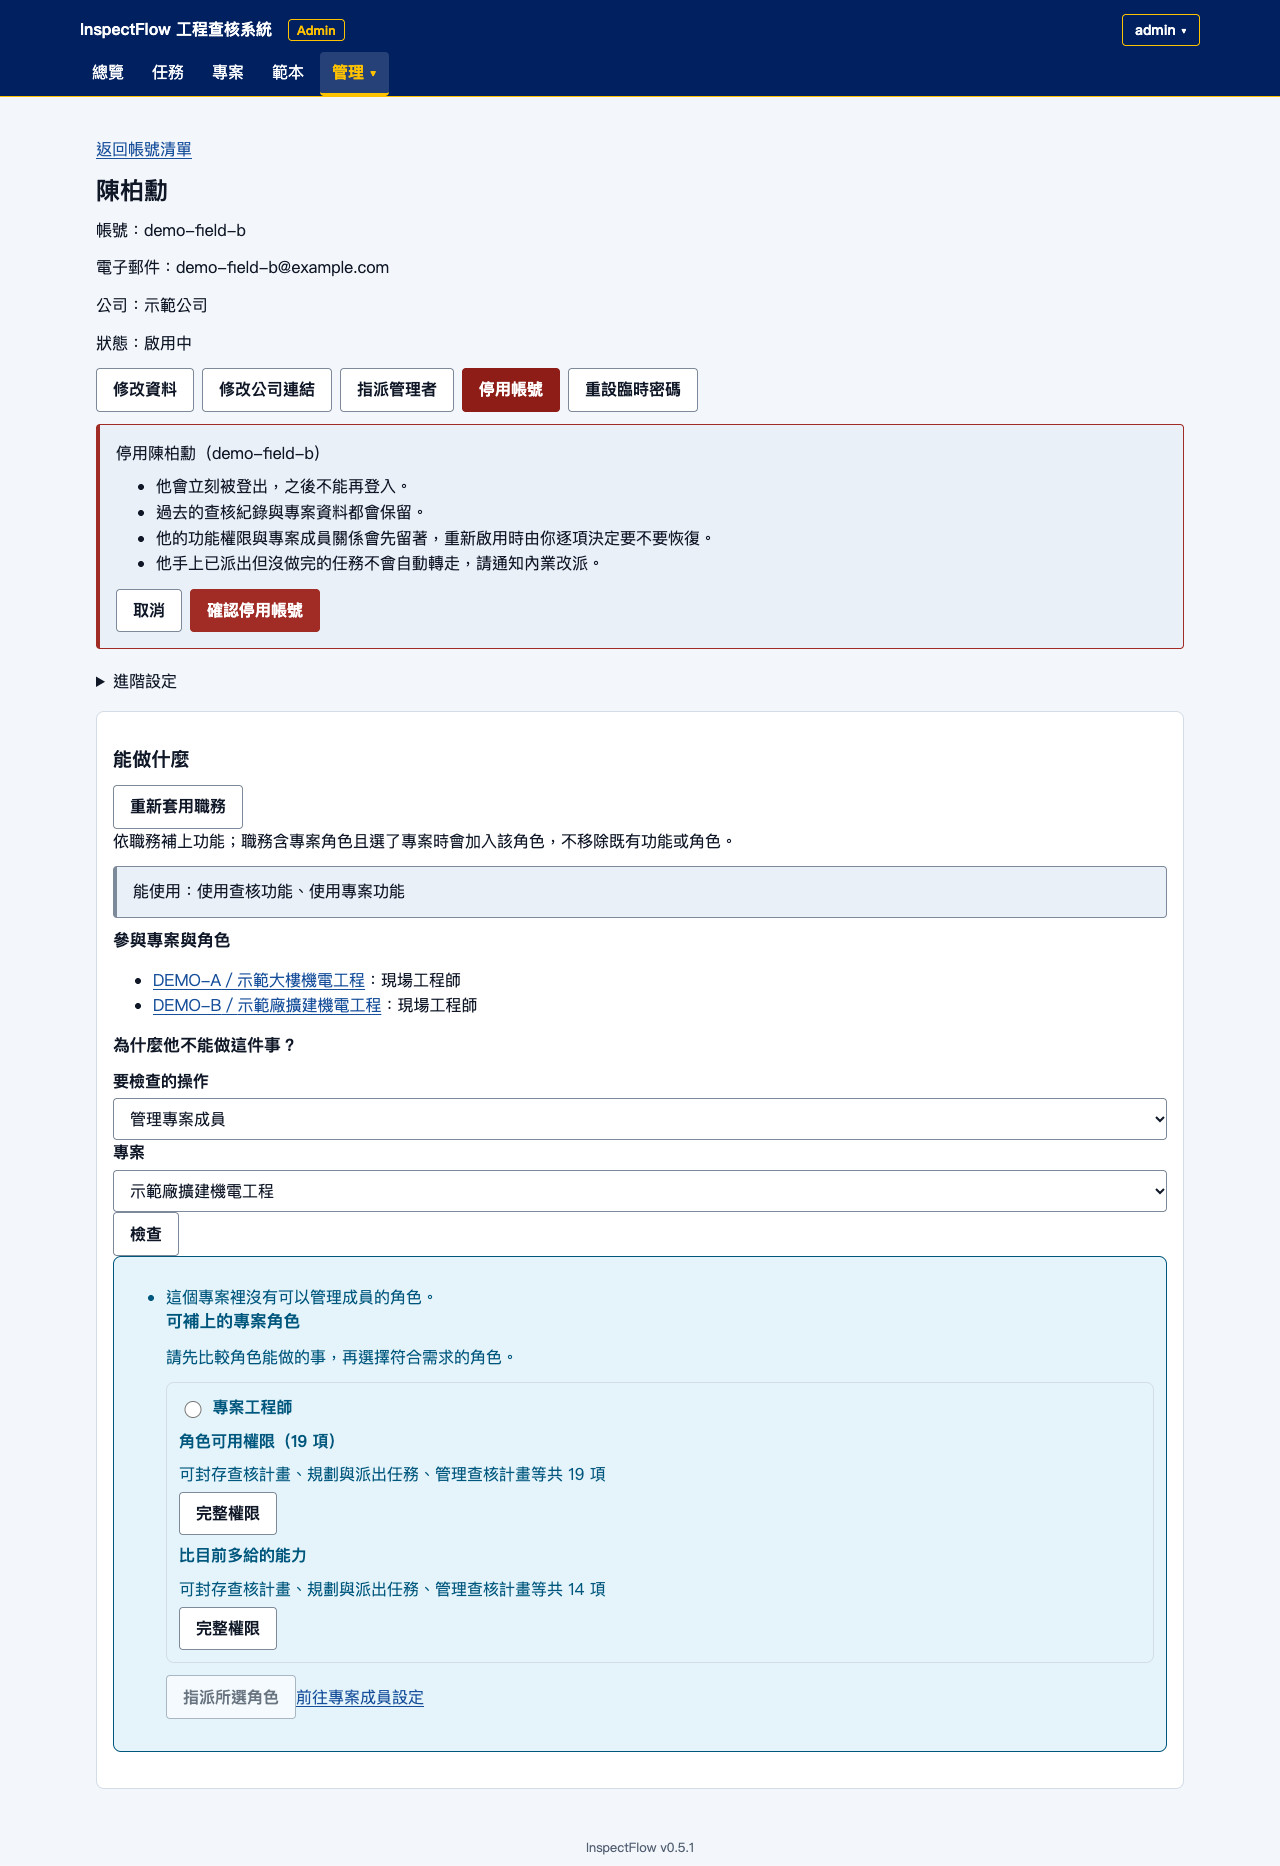
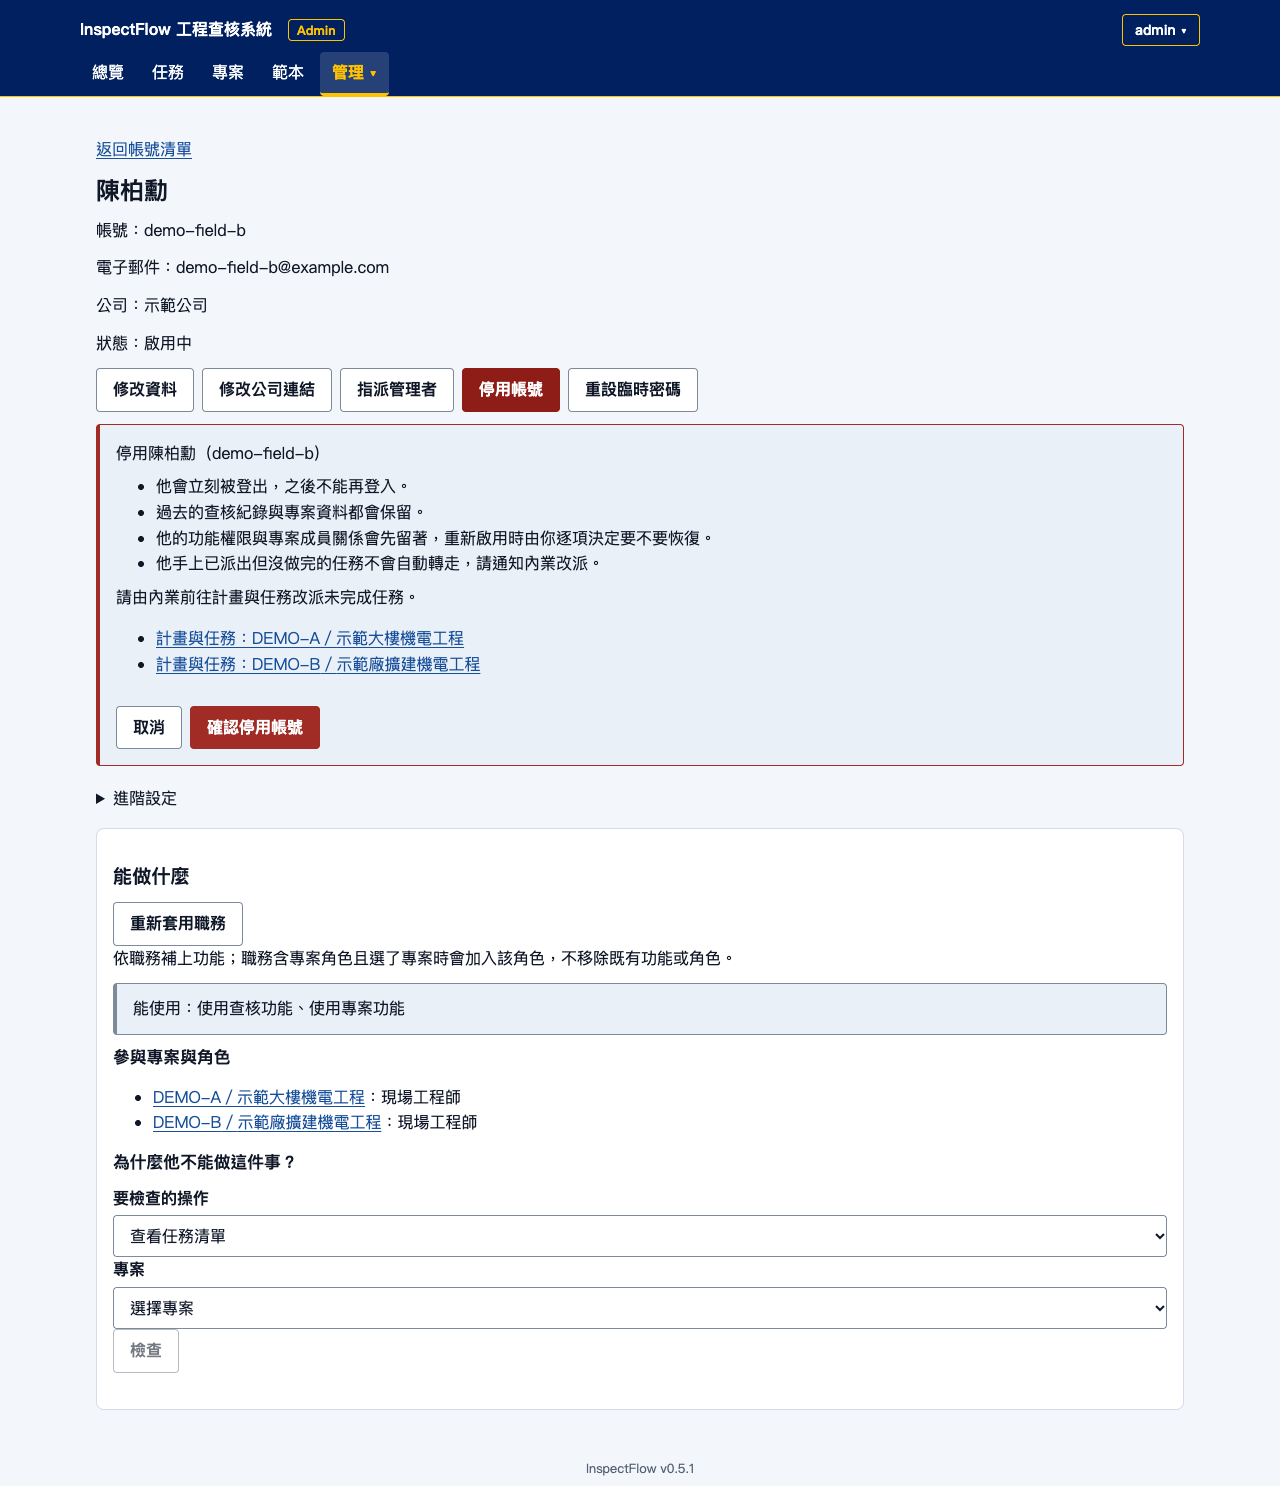
fix(accounts): link ordinary members to task reassignment
- What: combine the existing deactivation check and participating-project
  query, then show planning links in detail, list, and batch confirmations.
- Why: ordinary members also need reassignment guidance, even when they
  are not the last member who can manage a project.
- Impact: preserve the last-manager warning, deduplicate batch project
  links, and keep confirmation disabled if required preview data fails.
- Verification: three missing-link regressions failed before the fix;
  85 account guard tests and desktop/mobile browser checks passed.

Issue: #728

Changed region(s): [[0.0, 0.0, 1.0, 0.9596], [0.4688, 0.9906, 0.5312, 1.0]]

diff --git a/frontend/src/admin/UsersPage.tsx b/frontend/src/admin/UsersPage.tsx
@@ -47,6 +47,7 @@ import {
   type User,
   type UserDetail,
 } from './api'
+import { getUserParticipatingProjects } from './module-permissions/api'
 import { useCursorList } from './useCursorList'
 import UserForm from './UserForm'
 import { ACCOUNT_LABEL } from '../layout/navigationLabels'
@@ -107,6 +108,45 @@ function DeactivationWarning({
       </ul>
     </div>
   )
+}
+
+/** ADM-R33：改派入口適用所有成員，不只最後一位管理成員。 */
+function DeactivationReassignmentLinks({
+  projects,
+}: {
+  projects: DeactivationCheck['last_manager_projects']
+}) {
+  if (!projects.length) return null
+  return (
+    <section aria-label="改派未完成任務">
+      <p>請由內業前往計畫與任務改派未完成任務。</p>
+      <ul>
+        {projects.map((project) => (
+          <li key={project.id}>
+            <Link to={`/projects/${project.id}/planning`}>
+              計畫與任務：{project.project_code}／{project.name}
+            </Link>
+          </li>
+        ))}
+      </ul>
+    </section>
+  )
+}
+
+/** 停用確認的頁面資料；保留 API 原有的最後管理者警告契約。 */
+type DeactivationPreview = DeactivationCheck & {
+  reassignment_projects: DeactivationCheck['last_manager_projects']
+}
+
+/** ADM-R33：整合既有查詢，讓一般成員也能直接前往參與專案改派。 */
+async function loadDeactivationPreview(
+  userId: string,
+): Promise<DeactivationPreview> {
+  const [check, projects] = await Promise.all([
+    getDeactivationCheck(userId),
+    getUserParticipatingProjects(userId),
+  ])
+  return { ...check, reassignment_projects: projects }
 }
 
 /** 工號衝突由 API 判斷，錯誤需提供可執行的修正方向。 */
@@ -232,7 +272,7 @@ export default function UsersPage({
     message: string
   } | null>(null)
   const [actionPreview, setActionPreview] = useState<
-    DeactivationCheck | RestorePreview | null
+    DeactivationPreview | RestorePreview | null
   >(null)
   const [previewError, setPreviewError] = useState('')
   const [selectedBatchUserIds, setSelectedBatchUserIds] = useState<string[]>(
@@ -246,6 +286,7 @@ export default function UsersPage({
   const [batchDeactivationPreview, setBatchDeactivationPreview] = useState<{
     users: User[]
     projects: DeactivationCheck['last_manager_projects']
+    reassignmentProjects: DeactivationCheck['last_manager_projects']
   } | null>(null)
   const [batchActivationLoading, setBatchActivationLoading] = useState(false)
   const [batchActivationBusy, setBatchActivationBusy] = useState(false)
@@ -371,7 +412,7 @@ export default function UsersPage({
     setPreviewError('')
     setActionPreview(null)
     if (pendingAction.kind === 'deactivate') {
-      void getDeactivationCheck(pendingAction.user.id)
+      void loadDeactivationPreview(pendingAction.user.id)
         .then((data) => active && setActionPreview(data))
         .catch((caught: unknown) => {
           if (active) setPreviewError(managementErrorMessage(caught))
@@ -514,13 +555,20 @@ export default function UsersPage({
     setBatchDeactivationLoading(true)
     try {
       const checks = await Promise.all(
-        selected.map((user) => getDeactivationCheck(user.id)),
+        selected.map((user) => loadDeactivationPreview(user.id)),
       )
       const projects = new Map<
         string,
         DeactivationCheck['last_manager_projects'][number]
       >()
+      const reassignmentProjects = new Map<
+        string,
+        DeactivationCheck['last_manager_projects'][number]
+      >()
       checks.forEach((check) => {
+        check.reassignment_projects.forEach((project) =>
+          reassignmentProjects.set(project.id, project),
+        )
         check.last_manager_projects.forEach((project) =>
           projects.set(project.id, project),
         )
@@ -528,6 +576,7 @@ export default function UsersPage({
       setBatchDeactivationPreview({
         users: selected,
         projects: [...projects.values()],
+        reassignmentProjects: [...reassignmentProjects.values()],
       })
     } catch (caught) {
       setBatchDeactivationError(managementErrorMessage(caught))
@@ -934,9 +983,14 @@ export default function UsersPage({
                   {pendingAction.kind === 'deactivate' &&
                     actionPreview &&
                     'last_manager_projects' in actionPreview && (
-                      <DeactivationWarning
-                        projects={actionPreview.last_manager_projects}
-                      />
+                      <>
+                        <DeactivationWarning
+                          projects={actionPreview.last_manager_projects}
+                        />
+                        <DeactivationReassignmentLinks
+                          projects={actionPreview.reassignment_projects}
+                        />
+                      </>
                     )}
                   {pendingAction.kind === 'activate' &&
                     actionPreview &&
@@ -1301,11 +1355,18 @@ export default function UsersPage({
                                     actionPreview &&
                                     'last_manager_projects' in
                                       actionPreview && (
-                                      <DeactivationWarning
-                                        projects={
-                                          actionPreview.last_manager_projects
-                                        }
-                                      />
+                                      <>
+                                        <DeactivationWarning
+                                          projects={
+                                            actionPreview.last_manager_projects
+                                          }
+                                        />
+                                        <DeactivationReassignmentLinks
+                                          projects={
+                                            actionPreview.reassignment_projects
+                                          }
+                                        />
+                                      </>
                                     )}
                                   {pendingAction.kind === 'activate' &&
                                     actionPreview &&
@@ -1557,6 +1618,11 @@ export default function UsersPage({
                       >
                         <DeactivationConsequences
                           count={batchDeactivationPreview.users.length}
+                        />
+                        <DeactivationReassignmentLinks
+                          projects={
+                            batchDeactivationPreview.reassignmentProjects
+                          }
                         />
                         <ul>
                           {batchDeactivationPreview.users.map((user) => (

diff --git a/frontend/src/admin/AdminPage.test.tsx b/frontend/src/admin/AdminPage.test.tsx
@@ -487,6 +487,9 @@ function managementFetch({
             companies.find((c) => c.id === row?.company_id)?.name ?? null,
         })
       }
+      if (parsed.pathname.endsWith('/participating-projects')) {
+        return Response.json({ items: [] })
+      }
       if (url.endsWith('/users/user-1/deactivation-check')) {
         return Response.json({ user_id: 'user-1', last_manager_projects: [] })
       }

diff --git a/docs/user-guide/accounts-and-permissions.md b/docs/user-guide/accounts-and-permissions.md
@@ -159,22 +159,22 @@
 
 ### 現場故事
 
-人事通知周子由（`demo-no-access`）今天最後一天。系統管理者在帳號詳情按「停用帳號」，確認框顯示「停用周子由（demo-no-access）」及四項後果。她核對姓名、帳號與影響後按「確認停用帳號」，詳情狀態改為「已停用」，並看到「周子由 已停用。」的成功提示。
+人事通知陳柏勳（`demo-field-b`）今天最後一天。系統管理者在帳號詳情按「停用帳號」，確認框顯示「停用陳柏勳（demo-field-b）」及四項後果。她核對姓名、帳號與影響後按「確認停用帳號」，詳情狀態改為「已停用」，並看到「陳柏勳 已停用。」的成功提示。
 
 ### 操作步驟
 
 1. 在主導覽按「管理▾」，選「帳號」。
-2. 在「搜尋帳號」輸入姓名或帳號後按「搜尋」，再按目標的姓名，例如「周子由」，進入帳號詳情。
+2. 在「搜尋帳號」輸入姓名或帳號後按「搜尋」，再按目標的姓名，例如「陳柏勳」，進入帳號詳情。
 3. 先核對詳情上的「帳號」「電子郵件」「公司」，確認是要停用的人。
 4. 在基本資料下方的操作按鈕列按「停用帳號」；它使用危險樣式，同列另有修改資料、修改公司連結、指派／收回管理者及重設臨時密碼。
-5. 在「操作確認」核對姓名、帳號，逐項閱讀：①他會立刻被登出，之後不能再登入。②過去的查核紀錄與專案資料都會保留。③他的功能權限與專案成員關係會先留著，重新啟用時由你逐項決定要不要恢復。④他手上已派出但沒做完的任務不會自動轉走，請通知內業改派。如果停用後有專案沒有管理者，確認框會另外列出專案與連結，請先安排接手者。
+5. 在「操作確認」核對姓名、帳號，逐項閱讀：①他會立刻被登出，之後不能再登入。②過去的查核紀錄與專案資料都會保留。③他的功能權限與專案成員關係會先留著，重新啟用時由你逐項決定要不要恢復。④他手上已派出但沒做完的任務不會自動轉走，請通知內業改派。確認框會列出此人參與的專案，按「計畫與任務：專案名稱」可直接前往安排改派；沒有參與專案時不顯示連結。如果停用後有專案沒有管理者，確認框會另外列出專案與連結，請先安排接手者。
    ![停用帳號前的確認畫面](images/account-deactivate-confirm.png)
 6. 確認無誤按「確認停用帳號」；發現選錯人按「取消」，不會有任何變更。
 7. 在詳情看「狀態：已停用」，確認已經生效。
    ![停用後的帳號狀態](images/account-deactivated-status.png)
-8. 若要恢復，按「啟用帳號」。確認文字會使用姓名與帳號；沒有可恢復項目的區塊會隱藏，全部都沒有時顯示「這個帳號沒有需要恢復的權限或專案。」。確認後可再次登入，並看到「周子由 已重新啟用。」。
+8. 若要恢復，按「啟用帳號」。確認文字會使用姓名與帳號；沒有可恢復項目的區塊會隱藏，全部都沒有時顯示「這個帳號沒有需要恢復的權限或專案。」。確認後可再次登入，並看到「陳柏勳 已重新啟用。」。
 
-隔離 demo 中以 `demo-no-access` 實際完成停用，詳情顯示「已停用」；為免影響後續示範，截圖後已重新啟用，回讀顯示「啟用中」。
+隔離 demo 中以 `demo-field-b` 實際完成停用，詳情顯示「已停用」；為免影響後續示範，截圖後已重新啟用，回讀顯示「啟用中」。
 
 ### 為什麼這樣設計
 
